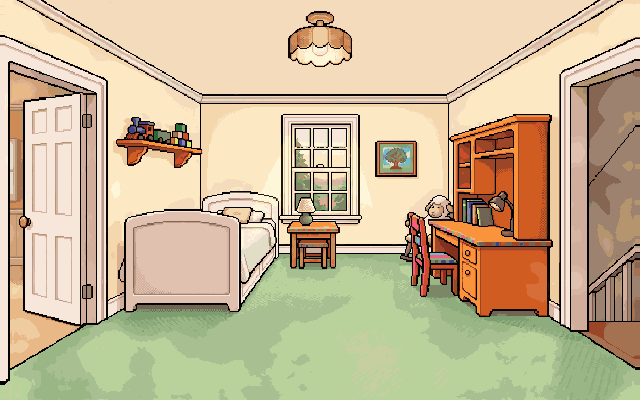
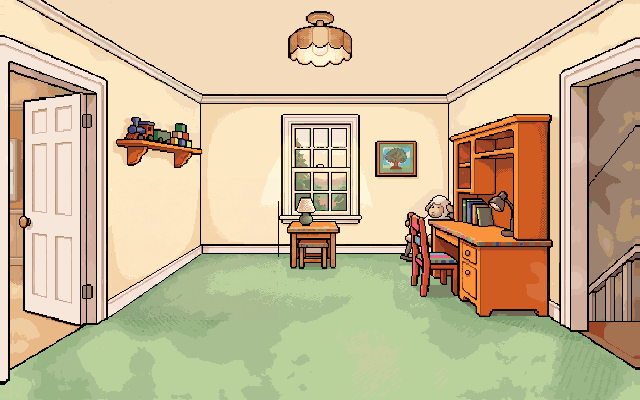
Make the wake-up poses whole-bed tiles so they line up
The figure-only sprites could never register against the bed in the room
art: each carried bedding and bedposts drawn for a different bed, and the
18px strip of footboard redrawn in front sliced the sleeper down the
middle. So the bed was inpainted out of both bedroom frames and the poses
regenerated with the bed included, using the room's own bed as a
reference image for the palette and perspective.

The three tiles share one silhouette, which is what lets them swap
without the frame appearing to move: the empty bed is the asleep tile
with Theo inpainted out and the original alpha reapplied, so it matches
byte for byte. Positioned to seat the front-left leg on the carpet
rather than 20-some pixels up the wall.

Also carries the earlier fix for Lucy clipping through the kitchen door
jamb, which lives in the same file.

Claude-Session: https://claude.ai/code/session_016dU4Hm1fqguPe5XdBKdvzZ

Changed region(s): [[0.1562, 0.48, 0.4375, 0.81]]

diff --git a/src/scenes/GameScene.ts b/src/scenes/GameScene.ts
@@ -22,10 +22,21 @@ const LUCY_FOLLOW_DELAY_MS = 150;
 const LUCY_RUN_SPEED = WALK_SPEED * 1.7;
 /** Feet height that puts Lucy inside the kitchen's right doorway (its floor runs to about y 330). */
 const KITCHEN_DOORWAY_Y = 326;
+/** Screen x of the near edge of that doorway's frame, where Lucy comes out from behind it. */
+const DOORWAY_NEAR_EDGE = 579;
 /** Gap between one hint sparkle starting and the next (each twinkle lasts 1.2s). */
 const GLINT_STAGGER_MS = 1400;
 /** How long Theo's greeting stays up before he climbs out of bed on his own. */
 const WAKE_GREETING_MS = 2800;
+/**
+ * The bedroom art has no bed in it, so the bed is always an overlay drawn here. All three poses
+ * share one silhouette, which is what lets them swap without the frame appearing to move.
+ */
+const BED_POS = { x: 124, y: 196 };
+/** The bed's base, so feet in front of it sort ahead of it and feet up by the wall sort behind. */
+const BED_DEPTH = 328;
+/** Where Theo lands after hopping out, clear of the bed's footprint. */
+const WAKE_STAND = { x: 300, y: 344 };
 
 /** Renders whichever room the store says we are in, and runs all point-and-click interaction. */
 export class GameScene extends Phaser.Scene {
@@ -36,6 +47,8 @@ export class GameScene extends Phaser.Scene {
   private room!: Room;
   private roomObjects: Phaser.GameObjects.GameObject[] = [];
   private ambient?: AmbientBackground;
+  /** The bedroom's bed overlay, swapped between poses during the wake-up intro. */
+  private bed?: Phaser.GameObjects.Image;
   private hints!: HintTimer;
   private walkMap!: WalkMap;
   private fade!: DitherFade;
@@ -76,7 +89,7 @@ export class GameScene extends Phaser.Scene {
     );
     const s = store.get();
     this.room = getRoom(s.currentRoom);
-    const wake = !!data.wakeUp && this.room.id === 'bedroom' && ['theo_front', 'theo_asleep', 'theo_sitting'].every((k) => this.textures.exists(k));
+    const wake = !!data.wakeUp && this.room.id === 'bedroom' && ['theo_front', 'bed_asleep', 'bed_sit'].every((k) => this.textures.exists(k));
     // During the wake-up intro the HUD is shown but keeps its backpack prompt quiet.
     this.registry.set('hudQuiet', wake);
     this.scene.launch('Hud');
@@ -111,34 +124,22 @@ export class GameScene extends Phaser.Scene {
   private async wakeUp(): Promise<void> {
     this.busy = true;
     this.theo.sprite.setVisible(false);
-    const bg = `${this.room.background}_0`;
-    // The footboard is drawn again above the sleeper so his body reads as tucked in behind it.
-    const footboard = this.add.image(0, 0, bg).setOrigin(0).setDepth(260).setCrop(120, 190, 120, 122);
-    const asleep = this.add.image(176, 191, 'theo_asleep').setOrigin(0).setDepth(255);
-    this.roomObjects.push(footboard, asleep);
+    this.setBed('bed_asleep');
 
     void this.fade.in(2600);
     await this.wait(3400);
-    // A little stir under the covers, then he sits up and yawns.
-    await this.tween(asleep, { y: 193 }, 220);
-    await this.tween(asleep, { y: 191 }, 220);
-    await this.wait(300);
-    asleep.destroy();
-    const sitting = this.add.image(222, 198, 'theo_sitting').setOrigin(0).setDepth(255);
-    this.roomObjects.push(sitting);
-    await this.tween(sitting, { y: 188 }, 320, 'Back.easeOut');
     playSfx('ding');
-    await this.dialogue.say('*yaaawn* Good morning!', 254, 180, { duration: WAKE_GREETING_MS });
-    // Swing his legs out and hop down onto the carpet, then hand over to the walking sprite.
-    sitting.destroy();
-    const stander = this.add.image(262, 300, 'theo_front').setOrigin(0.5, 1).setDepth(255);
+    this.setBed('bed_sit');
+    await this.dialogue.say('*yaaawn* Good morning!', 245, 212, { duration: WAKE_GREETING_MS });
+    // Out from under the covers and down onto the carpet, then hand over to the walking sprite.
+    this.setBed('bed_empty');
+    const stander = this.add.image(276, 322, 'theo_front').setOrigin(0.5, 1).setDepth(BED_DEPTH + 12);
     this.roomObjects.push(stander);
-    await this.tween(stander, { x: 300, y: 288 }, 200, 'Quad.easeOut');
-    await this.tween(stander, { y: 342 }, 200, 'Quad.easeIn');
+    await this.tween(stander, { x: WAKE_STAND.x, y: 332 }, 200, 'Quad.easeOut');
+    await this.tween(stander, { y: WAKE_STAND.y }, 200, 'Quad.easeIn');
     stander.destroy();
-    footboard.destroy();
-    this.roomObjects = this.roomObjects.filter((o) => o !== stander && o !== footboard && o !== asleep && o !== sitting);
-    this.theo.setPosition(300, 342);
+    this.roomObjects = this.roomObjects.filter((o) => o !== stander);
+    this.theo.setPosition(WAKE_STAND.x, WAKE_STAND.y);
     this.theo.sprite.setVisible(true);
     playSfx('step');
     this.registry.set('hudQuiet', false);
@@ -161,6 +162,7 @@ export class GameScene extends Phaser.Scene {
     this.ambient = new AmbientBackground(this, this.room);
     const state = store.get();
 
+    if (this.room.id === 'bedroom') this.setBed('bed_empty');
     for (const exit of this.room.exits) this.addExitZone(exit);
     for (const h of this.room.hotspots) this.addHotspot(h, state);
     if (this.room.id === 'kitchen') {
@@ -168,10 +170,22 @@ export class GameScene extends Phaser.Scene {
     }
   }
 
+  /** Shows the bed in one of its poses, creating the overlay on first use. */
+  private setBed(texture: 'bed_empty' | 'bed_asleep' | 'bed_sit'): void {
+    if (!this.textures.exists(texture)) return;
+    if (this.bed) {
+      this.bed.setTexture(texture);
+      return;
+    }
+    this.bed = this.add.image(BED_POS.x, BED_POS.y, texture).setOrigin(0).setDepth(BED_DEPTH);
+    this.roomObjects.push(this.bed);
+  }
+
   private clearRoom(): void {
     this.dialogue.clear();
     this.ambient?.destroy();
     this.ambient = undefined;
+    this.bed = undefined;
     for (const o of this.roomObjects) o.destroy();
     this.roomObjects = [];
     this.clearGlints();
@@ -198,11 +212,12 @@ export class GameScene extends Phaser.Scene {
     if (this.room.id === 'kitchen' && !store.get().lucyJoined) {
       store.update((s) => (s.lucyJoined = true));
       const lp = this.room.lucyRestPoint ?? this.room.restPoint;
-      // Lucy comes running in through the family room doorway to meet him. Only the near door
-      // jamb is redrawn in front of her; the far side of the frame stays behind her.
+      // Lucy comes running in through the family room doorway to meet him. The frame and the wall
+      // right of it are redrawn over her so she emerges from the opening; an 18px strip of it just
+      // sliced her down the middle as she walked past.
       const door = { x: this.room.exits.find((e) => e.to === 'family_room')?.walkTo.x ?? GAME_WIDTH - 40, y: KITCHEN_DOORWAY_Y };
       const bg = `${this.room.background}_0`;
-      const jamb = this.add.image(0, 0, bg).setOrigin(0).setDepth(900).setCrop(580, 50, 18, 284);
+      const jamb = this.add.image(0, 0, bg).setOrigin(0).setDepth(900).setCrop(DOORWAY_NEAR_EDGE, 50, GAME_WIDTH - DOORWAY_NEAR_EDGE, 284);
       this.lucy = new Character(this, 'lucy', GAME_WIDTH + 24, door.y);
       this.lucy.face(-1);
       await this.wait(400);

diff --git a/tests/bedroom-path.test.ts b/tests/bedroom-path.test.ts
@@ -1,0 +1,31 @@
+import { describe, expect, it } from 'vitest';
+import { buildWalkMap, clearLine, findPath, isWalkable } from '../src/systems/Pathfind';
+import { bedroom } from '../src/data/rooms/bedroom';
+
+/**
+ * The bed is an overlay whose hotspot doubles as a walk blocker, so nudging it can strand the
+ * spots Theo has to reach — in particular the stomp rocket, which he approaches along the narrow
+ * strip of carpet below the bed.
+ */
+describe('bedroom floor', () => {
+  const map = buildWalkMap(bedroom);
+
+  it('keeps every walk-to target on open floor', () => {
+    const targets = [
+      bedroom.restPoint,
+      ...bedroom.exits.map((e) => e.walkTo),
+      ...bedroom.hotspots.flatMap((h) => ('walkTo' in h && h.walkTo ? [h.walkTo] : [])),
+    ];
+    for (const t of targets) expect(isWalkable(map, t.x, t.y)).toBe(true);
+  });
+
+  it('routes from where Theo lands after getting up to his resting spot', () => {
+    const from = { x: 300, y: 344 };
+    expect(isWalkable(map, from.x, from.y)).toBe(true);
+    let prev = from;
+    for (const p of findPath(map, from, bedroom.restPoint)) {
+      expect(clearLine(map, prev, p)).toBe(true);
+      prev = p;
+    }
+  });
+});

diff --git a/src/data/rooms/bedroom.ts b/src/data/rooms/bedroom.ts
@@ -29,7 +29,7 @@ export const bedroom: Room = {
       condition: { flag: 'hasBackpack' },
       refusalComment: "My stomp rocket! But I need something to carry it in...",
     },
-    { kind: 'decoration', id: 'bed', zone: { x: 122, y: 190, w: 158, h: 120 }, lines: ['Boing! Boing!', 'My bed is super bouncy.'], sfx: 'boing' },
+    { kind: 'decoration', id: 'bed', zone: { x: 128, y: 206, w: 154, h: 122 }, lines: ['Boing! Boing!', 'My bed is super bouncy.'], sfx: 'boing' },
     { kind: 'decoration', id: 'lamp', zone: { x: 288, y: 192, w: 46, h: 80 }, lines: ['Click! Lights on. Click! Lights off.'], sfx: 'click' },
     { kind: 'decoration', id: 'window', zone: { x: 280, y: 115, w: 80, h: 76 }, lines: ["It's a beautiful morning outside!"], sfx: 'ding' },
     { kind: 'decoration', id: 'desk', zone: { x: 450, y: 120, w: 110, h: 200 }, lines: ['My big desk. So many crayons!', 'Scribble scribble.'], sfx: 'click' },

diff --git a/art/pixellab/characters.md b/art/pixellab/characters.md
@@ -56,11 +56,26 @@ stomp_rocket 4 (46), kitchen_door_key 24 (47), garage_key 22 (48),
 playhouse_key 10 (49), toy_bus 62 (50), backpack: regenerated at 64x64 (seed 77) because the
 48x44 render was cropped at the top; candidate 8 trimmed to its bounds and padded to 52x56.
 
-## Wake-up intro poses (generate-image-v2 with `theo_front` as subject reference)
+## Wake-up intro: whole-bed tiles (2026-09-18)
 
-- `theo_asleep.png` 96x48, seed 31, candidate 0: head on the pillow at the right, blanket to the left.
-  Placed at (176,191) in the bedroom with the footboard redrawn in front of it.
-- `theo_sitting.png` 64x80, seed 32, candidate 8: sitting up yawning, arms raised. The generator's
-  bedposts were erased from the side columns. Placed at (222,188).
-- An `/inpaint-v3` attempt to paint Theo straight into the bed art repainted the bed but never
-  added a figure, so standalone sprites are the way to go for poses like this.
+The first attempt used figure-only sprites (`theo_asleep`, `theo_sitting`) pasted onto the bed in
+the room art, with the footboard redrawn in front. They could never line up: each sprite carried
+its own bedding and bedposts drawn for a different bed, and an 18px strip of redrawn footboard
+sliced the sleeper. Replaced by tiles that contain the whole bed, so nothing has to register
+against the background.
+
+- The bed was **removed from `bedroom/bg_0.png` and `bg_1.png`** with `/inpaint-v3` (mask rect
+  (112,178)-(278,320); the two frames are byte-identical there, so one patch served both). The
+  endpoint caps input at 512x512, so it ran on a 512x400 crop, and it re-renders the whole frame —
+  only the masked rect was pasted back, leaving the rest of the room untouched.
+- `bed_asleep.png` 160x136, seed 31, candidate 2: generated with the old bed's crop as a reference
+  image so the frame, palette and perspective match the room.
+- `bed_sit.png` seed 32, candidate 0: generated with `bed_asleep.png` as the reference so the bed
+  stays put between poses. Its silhouette still drifts 3-6px from the others.
+- `bed_empty.png`: **not generated** — the empty-bed batches all came out smaller than the approved
+  bed, which made it jump. Instead Theo was inpainted out of `bed_asleep.png` (mask (90,16)-(138,72)
+  in tile space, seed 7) and the original alpha reapplied, so its silhouette is byte-identical.
+- All three are drawn at `BED_POS` (124,196) in `GameScene`. That offset seats the front-left leg on
+  the carpet; at the generator's framing the leg floated 21-30px up onto the wall.
+- Lesson: for a pose that has to sit in existing furniture, generate the furniture with it and pass
+  the room art as a reference. Inpainting removes things well but will not add a figure.

diff --git a/art/pixellab/README.md b/art/pixellab/README.md
@@ -47,8 +47,9 @@ The title screen layers `intro_house` (static), three drifting pixel clouds
 use the code-drawn `glint` at texture coords listed in `IntroScene.ts`.
 
 New Game runs `StoryScene` ("One Saturday..." / "...at the Lockwoods", dithered)
-and then the bedroom wake-up in `GameScene.wakeUp()`, which layers `theo_asleep`,
-`theo_sitting` and `theo_front` over the bed with the footboard redrawn in front.
+and then the bedroom wake-up in `GameScene.wakeUp()`. The bedroom art has no bed of
+its own: `bed_empty`, `bed_asleep` and `bed_sit` are whole-bed tiles drawn over it at
+`BED_POS`, and the wake-up swaps between them before handing over to `theo_front`.
 
 ## Macintosh frame
 
